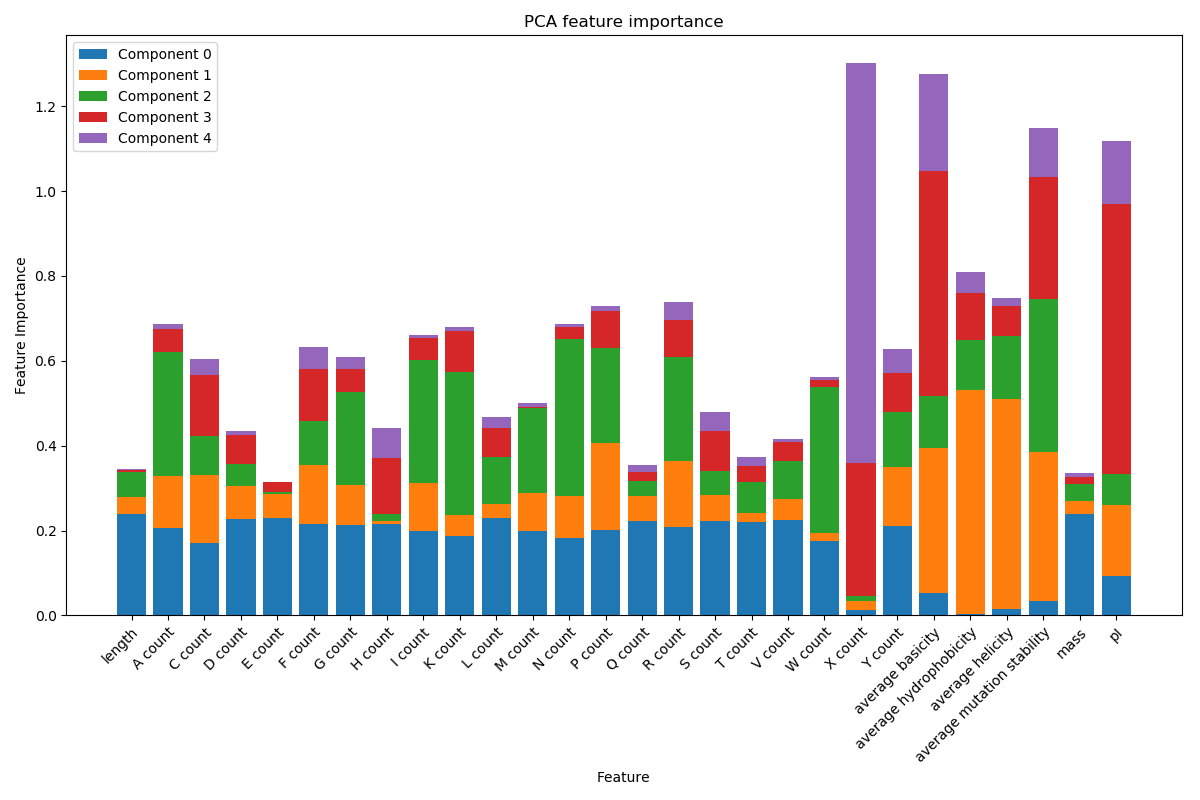
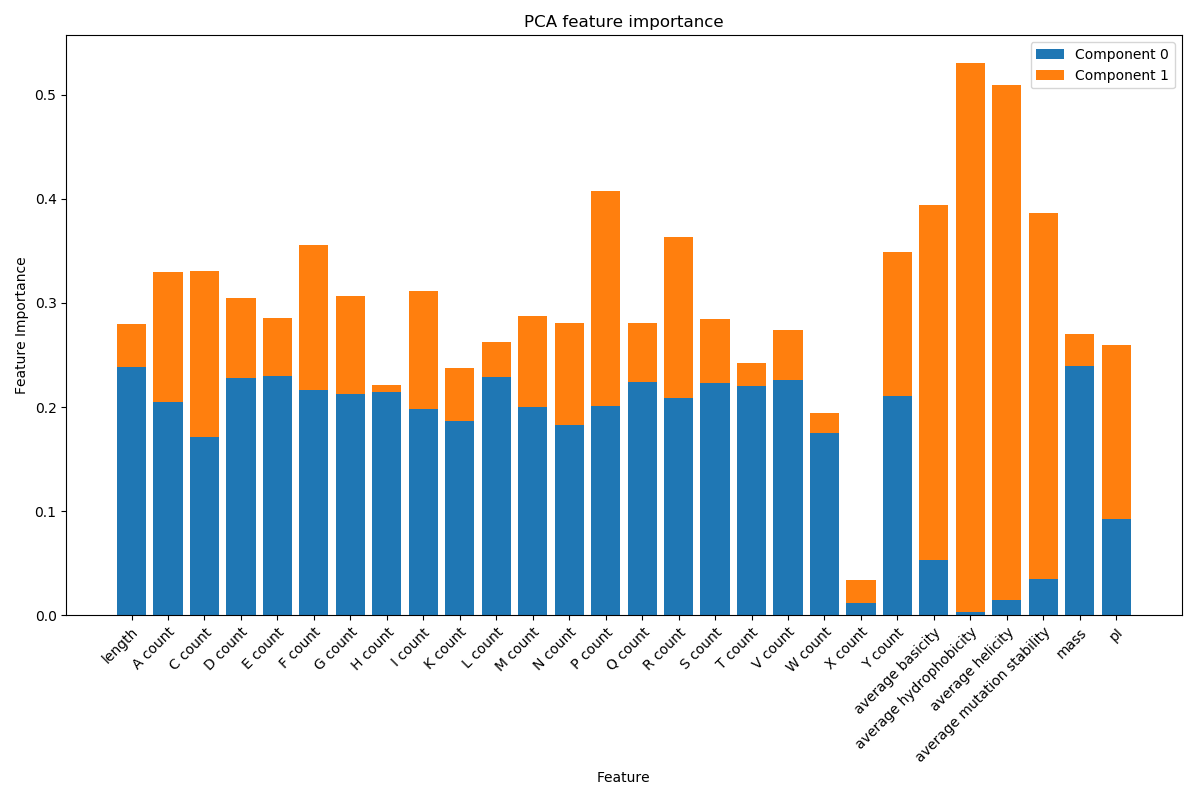
changing plots for the written thesis

diff --git a/DataPlotter/data_plotter.py b/DataPlotter/data_plotter.py
@@ -11,6 +11,9 @@ color_status_dict = {'CORRECT': color_dict['green'], 'UNCERTAIN': color_dict['or
 color_phase_dict = {'immediate-early': color_dict['blue'], 'early': color_dict['green'], 'late': color_dict['orange'],
                     'latent': color_dict['red']}
 
+virus_display_name = {"HSV_1": "HSV-1", "HSV_2": "HSV-2", "VZV": "VZV", "EBV": "EBV", "HCMV": "HCMV",
+                      "HHV_6A": "HHV-6A", "HHV_6B": "HHV-6B", "HHV_7": "HHV-7", "KSHV": "KSHV"}
+
 
 class DataPlotter:
     def __init__(self, config_filepath):
@@ -43,16 +46,16 @@ class DataPlotter:
             result_dict[phase] = self.homology_filter_data[self.homology_filter_data['label'] == phase]
 
         bars = [len(result_dict[p]) for p in self.phases]
-
+        plt.figure(figsize=(5, 4))
         plt.bar(range(len(result_dict)), bars,
                 tick_label=[p for p in self.phases], color=[color_phase_dict[p] for p in self.phases])
-        plt.title('Total number of genes per kinetic class')
+        # plt.title('Total number of genes per kinetic class')
         plt.ylabel('Number of genes')
 
         for i, v in enumerate(bars):
             plt.text(i, v - 4, str(v), color='white', ha='center', va='top', fontweight='bold')
-
-        plt.savefig(f'{self.output_directory_totals}phase.png', dpi=300)
+        plt.tight_layout()
+        plt.savefig(f'{self.output_directory_totals}kinetic_class_total.png', dpi=300)
         plt.close()
 
     def plot_total_status(self):
@@ -61,16 +64,16 @@ class DataPlotter:
             result_dict[status] = self.review_db_reader.get_by('review_status', status)
 
         bars = [len(result_dict[s]) for s in REVIEW_STATUSES]
-
+        plt.figure(figsize=(5, 4))
         plt.bar(range(len(result_dict)), bars, tick_label=[s for s in REVIEW_STATUSES],
                 color=[color_status_dict[s] for s in REVIEW_STATUSES])
-        plt.title('Total number of genes per review status')
+        # plt.title('Total number of genes per review status')
         plt.ylabel('Number of genes')
 
         for i, v in enumerate(bars):
-            plt.text(i, v - 4, str(v), color='white', ha='center', va='top')
+            plt.text(i, v - 4, str(v), color='white', ha='center', va='top', fontweight="bold")
         plt.tight_layout()
-        plt.savefig(f'{self.output_directory_totals}review_status.png', dpi=300)
+        plt.savefig(f'{self.output_directory_totals}review_status_total.png', dpi=300)
         plt.close()
 
     def plot_per_virus_phase(self):
@@ -84,7 +87,7 @@ class DataPlotter:
                 virus_dict[d['virus']] += 1
 
             bar_data[phase] = [virus_dict[v] for v in self.viruses]
-
+        plt.figure(figsize=(5.5, 4))
         bars = []
         phases = list(self.phases.keys())
         for i, phase in enumerate(phases):
@@ -96,27 +99,25 @@ class DataPlotter:
                                     color=color_phase_dict[phase]))
                 for j, v in enumerate(bar_data[phase]):
                     if v == 3:
-                        plt.text(j, v + bottom[j] - 0.5, str(v), color='white', ha='center', va='top', fontsize=8,
+                        plt.text(j, v + bottom[j] - 0.5, str(v), color='white', ha='center', va='top',
                                  fontweight='bold')
                     elif 3 < v:
-                        plt.text(j, v + bottom[j] - 1, str(v), color='white', ha='center', va='top', fontsize=8,
-                                 fontweight='bold')
+                        plt.text(j, v + bottom[j] - 1, str(v), color='white', ha='center', va='top', fontweight='bold')
             else:
                 bars.append(
                     plt.bar(range(len(self.viruses)), bar_data[phase], label=phase, color=color_phase_dict[phase]))
                 for j, v in enumerate(bar_data[phase]):
                     if v == 3:
-                        plt.text(j, v - 0.5, str(v), color='white', ha='center', va='top', fontsize=8,
-                                 fontweight='bold')
+                        plt.text(j, v - 0.5, str(v), color='white', ha='center', va='top', fontweight='bold')
                     elif 3 < v:
-                        plt.text(j, v - 1, str(v), color='white', ha='center', va='top', fontsize=8,
-                                 fontweight='bold')
+                        plt.text(j, v - 1, str(v), color='white', ha='center', va='top', fontweight='bold')
 
-        plt.xticks(range(len(self.viruses)), [v for v in self.viruses], fontsize=8)
+        plt.xticks(range(len(self.viruses)), [virus_display_name[v] for v in self.viruses], fontsize=8)
         plt.legend()
-        plt.title('Number of genes per kinetic class for each virus')
+        # plt.title('Number of genes per kinetic class for each virus')
         plt.ylabel('Number of genes')
-        plt.savefig(f'{self.output_directory_per_virus}phase.png', dpi=300)
+        plt.tight_layout()
+        plt.savefig(f'{self.output_directory_per_virus}kinetic_class_per_virus.png', dpi=300)
         plt.close()
 
     def plot_per_virus_status(self):
@@ -131,6 +132,8 @@ class DataPlotter:
 
             bar_data[status] = [virus_dict[v] for v in self.viruses]
 
+        plt.figure(figsize=(5.5, 4))
+
         bars = []
         for i, status in enumerate(REVIEW_STATUSES):
             if len(bars) > 0:
@@ -140,21 +143,22 @@ class DataPlotter:
                 bars.append(plt.bar(range(len(self.viruses)), bar_data[status], bottom=bottom, label=status,
                                     color=color_status_dict[status]))
                 for j, v in enumerate(bar_data[status]):
-                    if v > 6:
-                        plt.text(j, v + bottom[j] - 2.5, str(v), color='white', ha='center', va='top', fontsize=8)
+                    if v > 7:
+                        plt.text(j, v + bottom[j] - 2.5, str(v), color='white', ha='center', va='top',
+                                 fontweight="bold")
             else:
                 bars.append(
                     plt.bar(range(len(self.viruses)), bar_data[status], label=status, color=color_status_dict[status]))
                 for j, v in enumerate(bar_data[status]):
-                    if v > 6:
-                        plt.text(j, v - 2.5, str(v), color='white', ha='center', va='top', fontsize=8)
+                    if v > 7:
+                        plt.text(j, v - 2.5, str(v), color='white', ha='center', va='top', fontweight="bold")
 
-        plt.xticks(range(len(self.viruses)), [v for v in self.viruses], fontsize=8)
+        plt.xticks(range(len(self.viruses)), [virus_display_name[v] for v in self.viruses], fontsize=8)
         plt.legend()
-        plt.title('Number of genes per review status for each virus')
+        # plt.title('Number of genes per review status for each virus')
         plt.ylabel('Number of genes')
         plt.tight_layout()
-        plt.savefig(f'{self.output_directory_per_virus}review_status.png', dpi=300)
+        plt.savefig(f'{self.output_directory_per_virus}review_status_per_virus.png', dpi=300)
         plt.close()
 
     def plot(self):

diff --git a/Classification/pca_plotter.py b/Classification/pca_plotter.py
@@ -15,7 +15,7 @@ color_phase_dict = {'immediate-early': color_dict['blue'], 'early': color_dict['
 def _plot_pca_fi_barchart(relative, original_features, pca):
     plt.figure(figsize=(12, 8))
     bottom = [0 for _ in original_features]
-    for comp in range(5):
+    for comp in range(2):
         y = abs(pca.components_[comp])
         if relative:
             y = [el * pca.explained_variance_ratio_[comp] for el in y]
@@ -48,18 +48,18 @@ class PCAPlotter:
 
         y = [ev for ev in pca.explained_variance_ratio_[:10]] + [sum(pca.explained_variance_ratio_[10:])]
 
-        plt.figure(figsize=(10, 7))
+        plt.figure(figsize=(5, 4))
         x = [f"PC {i + 1}" for i, _ in enumerate(y[:-1])] + [f"PC 11 - 28"]
         plt.bar(x, y)
 
-        for i, v in enumerate(y):
-            plt.text(i, v, str(round(v * 100, 2)) + '%', ha='center', va='bottom', fontweight='bold')
+        # for i, v in enumerate(y):
+        #     plt.text(i, v, str(round(v * 100, 2)) + '%', ha='center', va='bottom', fontweight='bold')
 
         plt.xticks(rotation=45, rotation_mode='anchor', ha='right')
         plt.xlabel('PCA Component')
         plt.ylabel('Explained Variance Ratio')
         plt.tight_layout()
-        plt.savefig(f"{self.config['output_pca_variance_plot_directory']}None-pca_{name}")
+        plt.savefig(f"{self.config['output_pca_variance_plot_directory']}pca_explained_variance", dpi=300)
         plt.close()
 
     def plot_feature_importance(self, name):
@@ -88,21 +88,51 @@ class PCAPlotter:
         title = ""
         print(f"Plotting {title}")
 
+        features_file = compose_filename(self.config["input_data_folder"], self.config['filter_latent'],
+                                         self.config['standardization'], 'no-pca', 'features', name, 'csv')
+
+        original_features = pd.read_csv(features_file, index_col=0).columns
+        original_features = [col for col in original_features if col not in self.config['skip-features']]
+
+        pca_object_file = f"{self.config['input_pca_folder']}None-pca.p"
+        pca = pickle.load(open(pca_object_file, 'rb'))  # type: PCA
+
         pca_file = compose_filename(self.config["input_data_folder"], self.config['filter_latent'],
                                     self.config['standardization'], 2, 'features', name, 'csv')
         data = pd.read_csv(pca_file)
-        plt.figure()
+        plt.figure(figsize=(5, 4))
+
+        print(pca.components_[0])
+        print(pca.explained_variance_)
+        print(pca.singular_values_)
+
+        for i, feature in enumerate(original_features):
+            plt.arrow(0, 0, pca.components_[0][i], pca.components_[1][i], alpha=0.5, length_includes_head=True, head_width=0.005)
+            plt.text(pca.components_[0][i]*1.1, pca.components_[1][i]*1.1, feature, fontsize=8)
+
+        xs = []
+        ys = []
+        for label in ['immediate-early', 'early', 'late']:
+            label_data = data[data.label.eq(label)]
+            xs.extend(label_data['comp_0'])
+            ys.extend(label_data['comp_1'])
+        scalex = 0.75 / (max(xs) - min(xs))
+        scaley = 0.75 / (max(ys) - min(ys))
+
         for label in ['immediate-early', 'early', 'late']:
             label_data = data[data.label.eq(label)]
             x = label_data['comp_0']
             y = label_data['comp_1']
-            plt.scatter(x, y, label=label, s=65, alpha=0.65, edgecolors='none', color=color_phase_dict[label])
+            plt.scatter(x * scalex, y * scaley, label=label, s=40, alpha=0.65, edgecolors='none',
+                        color=color_phase_dict[label])
         plt.legend()
-        # plt.title(title, wrap=True)
+        plt.title(title, wrap=True)
+        plt.xlim(-.3, .8)
+        plt.ylim(-.6, .5)
         plt.xlabel('PC 1')
         plt.ylabel('PC 2')
-        plt.tight_layout(pad=2)
+        plt.tight_layout()
         filename = compose_filename(self.config['output_pca_plot_directory'], self.config['filter_latent'],
-                                    self.config['standardization'], 'no-pca', '2-pca', name, '')
+                                    self.config['standardization'], 'no-pca', '2-pca', 'scatter', 'png')
         plt.savefig(filename, dpi=300)
         plt.close()

diff --git a/Classification/classification_plotter.py b/Classification/classification_plotter.py
@@ -244,10 +244,48 @@ class ClassificationPlotter:
             self.plot_wrong_classifications()
 
     def _plot_pi(self, n_pca):
-        for ml_method, classifiers in self.results.items():
-            for classifier, result in classifiers.items():
-                if len(result['permutation_importance']) > 0:
-                    self.plot_permutation_importance(ml_method, classifier, n_pca)
+        # for ml_method, classifiers in self.results.items():
+        #     for classifier, result in classifiers.items():
+        #         if len(result['permutation_importance']) > 0:
+        #             self.plot_permutation_importance(ml_method, classifier, n_pca)
+        for classifier in ['RF', 'KNN', 'XGBoost']:
+            self.plot_permutation_importance_summary(classifier, 50, n_pca)
+
+    def plot_permutation_importance_summary(self, classifier, max_n, n_pca):
+        title = compose_configuration(f'Summarized Permutation Importances of {classifier}',
+                                      self.config['filter_latent'], self.config['standardization'], n_pca, self.name)
+        print(f"Plotting {title}")
+
+        features = self.results['RR'][classifier]['features']
+
+        perm_imps = []
+        for mc_technique in ['ML', '1vsA', 'RR']:
+            perm_imps.extend(self.results[mc_technique][classifier]['permutation_importance'])
+
+        permutation_importances = {}
+        for i, f in enumerate(features):
+            feature_imps = [perm_imp[i] for perm_imp in perm_imps]
+            permutation_importances[f] = (np.mean(feature_imps), np.std(feature_imps))
+
+        permutation_importances = {
+            k: v for k, v in sorted(permutation_importances.items(), key=lambda item: item[1][0], reverse=True)[:max_n]}
+
+        x_size = len(permutation_importances) / 3.2
+        y_size = x_size / 1.375
+        plt.figure(figsize=(x_size, y_size))
+        plt.bar(permutation_importances.keys(), [val[0] for val in permutation_importances.values()],
+                yerr=[val[1] for val in permutation_importances.values()], width=0.9,
+                error_kw=dict(lw=1, capsize=3, capthick=1))
+        plt.xticks(rotation=45, rotation_mode='anchor', ha='right')
+        plt.ylabel('Permutation Importance')
+        plt.xlabel('Feature')
+        # plt.title(title, wrap=True)
+        plt.tight_layout()
+        filename = compose_filename(self.config['output_pi_plot_directory'], self.config['filter_latent'],
+                                    self.config['standardization'], n_pca,
+                                    f'pi_{classifier}', self.name, '')
+        plt.savefig(filename, dpi=150)
+        plt.close()
 
     def plot_permutation_importance(self, ml_method, classifier, n_pca):
         title = compose_configuration(f'Permutation Importances of {ml_method} {classifier}',
@@ -337,7 +375,7 @@ class ClassificationPlotter:
                         else:
                             wrong = wrong.capitalize()
                         if number > 0:
-                            x.append(f'{ml_method}\n{classifier}')
+                            x.append(f'{self.MULTI_CLASS_NAME[ml_method]}\n{self.CLASSIFIER_NAME[classifier]}')
                             y.append(f'{correct} ' + r'$\rightarrow$' + f' {wrong}')
                             z.append(number / 200.)
             if not gap:

diff --git a/Classification/scatter_plot_matrix.py b/Classification/scatter_plot_matrix.py
@@ -48,7 +48,7 @@ class ScatterPlotMatrixPlotter:
         columns = [col for col in df.columns if col not in self.config['skip-features']]
         df = df[columns]
 
-        corr = df.corr(method='spearman').abs()
+        corr = df.corr(method='spearman')
         fig = plt.figure(figsize=(12, 10))
         ax = plt.gca()
         im = ax.matshow(corr)
@@ -61,9 +61,9 @@ class ScatterPlotMatrixPlotter:
         ax.set_yticks(range(df.shape[1]))
         ax.set_yticklabels(df.columns, fontsize=12)
 
-        plt.title('Spearman Feature Correlation Matrix', y=-0.07, x=-11, fontsize=20)
+        # plt.title('Spearman Feature Correlation Matrix', y=-0.07, x=-11, fontsize=20)
         fig.tight_layout(pad=2)
-        plt.savefig('Classification/Output/plots/scatter_plot_matrix/correlation_matrix', dpi=150)
+        plt.savefig('Classification/Output/plots/scatter_plot_matrix/feature_correlation_matrix', dpi=150)
 
     def plot_scatter_matrix(self):
         feature_file = compose_filename(self.config['input_data_folder'], True, False, 'no-pca', 'features', 'original',

diff --git a/main.py b/main.py
@@ -139,12 +139,12 @@ def main():
                 cp.plot_all()
 
                 pcap = PCAPlotter('config/classification_config.json')
-                # pcap.plot(args.features)
+                pcap.plot(args.features)
                 # pcap.plot_explained_variance(args.features)
-                # pcap.plot_feature_importance(args.features)
+                pcap.plot_feature_importance(args.features)
 
                 # spmp = ScatterPlotMatrixPlotter('config/classification_config.json')
-                # # spmp.plot_scatter_matrix()
+                # spmp.plot_scatter_matrix()
                 # spmp.plot_correlation_matrix()
 
 

diff --git a/HomologyFilter/homology_filter.py b/HomologyFilter/homology_filter.py
@@ -69,7 +69,7 @@ class HomologyFilter:
         plt.xticks(bins)
         plt.ylabel('Number of sequence pairs')
         plt.xlabel('Identity Score')
-        plt.title(title)
+        # plt.title(title)
         plt.tight_layout()
         plt.savefig(f'{self.plot_directory}{filename}.png', dpi=300)
         plt.clf()
